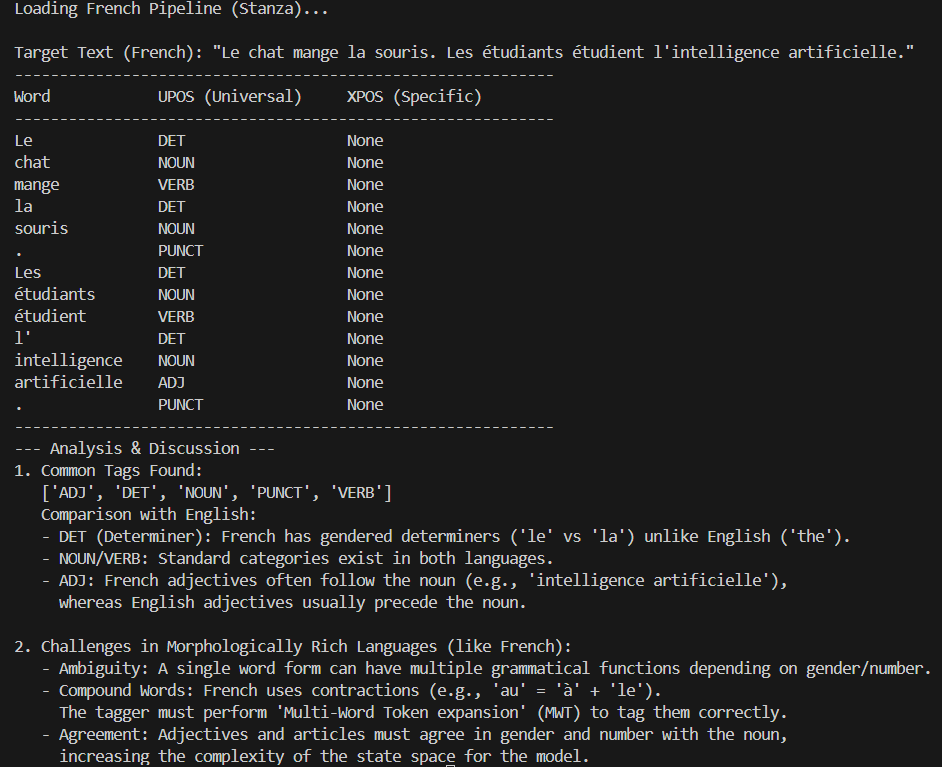
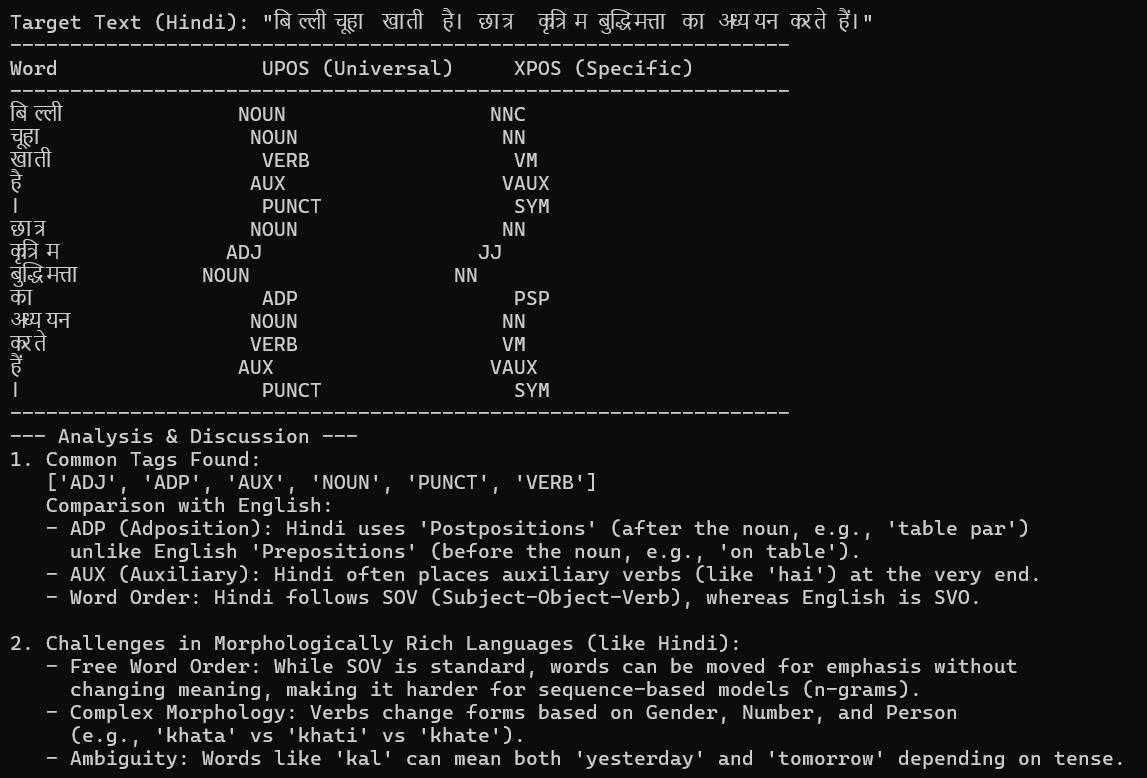
updated q6 to hindi

Changed region(s): [[0.0, 0.0, 0.9851, 1.0], [0.431, 0.3598, 0.4926, 0.5098], [0.4618, 0.5997, 0.5234, 0.6297]]

diff --git a/LAB/question6.py b/LAB/question6.py
@@ -1,64 +1,63 @@
 import stanza
 import sys
 
+# stanza.download('hi')
 
-stanza.download('fr')
-
-def pos_tagging_french():
+def pos_tagging_hindi():
     try:
-        # 1. Load Pretrained Model (French)
-        # Processors: 'tokenize' (split words), 'pos' (part of speech), 'mwt' (multi-word token expansion for French)
-        print("Loading French Pipeline (Stanza)...")
-        nlp = stanza.Pipeline(lang='fr', processors='tokenize,mwt,pos', verbose=False)
+        # 1. Load Pretrained Model (Hindi)
+        # Processors: 'tokenize' (split words), 'pos' (part of speech)
+        print("Loading Hindi Pipeline (Stanza)...")
+        nlp = stanza.Pipeline(lang='hi', processors='tokenize,pos', verbose=False)
     except Exception as e:
         print(f"Error loading model: {e}")
-        print("Please run 'stanza.download(\"fr\")' to download the model first.")
+        print("Please run 'stanza.download(\"hi\")' to download the model first.")
         return
 
     # 2. Load Sentences (Target Language)
-    # Sentence 1: "The cat eats the mouse."
-    # Sentence 2: "The students study artificial intelligence."
-    french_text = "Le chat mange la souris. Les étudiants étudient l'intelligence artificielle."
+    # Sentence 1: "The cat eats the mouse." -> "बिल्ली चूहा खाती है।"
+    # Sentence 2: "Students study artificial intelligence." -> "छात्र कृत्रिम बुद्धिमत्ता का अध्ययन करते हैं।"
+    hindi_text = "बिल्ली चूहा खाती है। छात्र कृत्रिम बुद्धिमत्ता का अध्ययन करते हैं।"
     
-    print(f"\nTarget Text (French): \"{french_text}\"")
-    print("-" * 60)
+    print(f"\nTarget Text (Hindi): \"{hindi_text}\"")
+    print("-" * 65)
 
     # 3. Perform Tagging
-    doc = nlp(french_text)
+    doc = nlp(hindi_text)
 
     # 4. Display Tags
     # UPOS: Universal Part of Speech (Standard across languages)
-    # XPOS: Language-specific Part of Speech (Specific to French grammar)
-    print(f"{'Word':<15} {'UPOS (Universal)':<20} {'XPOS (Specific)'}")
-    print("-" * 60)
+    # XPOS: Language-specific Part of Speech (Specific to Hindi grammar)
+    print(f"{'Word':<20} {'UPOS (Universal)':<20} {'XPOS (Specific)'}")
+    print("-" * 65)
 
     unique_tags = set()
 
     for sentence in doc.sentences:
         for word in sentence.words:
-            print(f"{word.text:<15} {word.upos:<20} {word.xpos}")
+            print(f"{word.text:<20} {word.upos:<20} {word.xpos}")
             unique_tags.add(word.upos)
 
     # 5. Analysis & Discussion (Required by Lab Question)
-    print("-" * 60)
+    print("-" * 65)
     print("--- Analysis & Discussion ---")
     
     # c. Identify common tags and compare with English
     print("1. Common Tags Found:")
     print(f"   {sorted(list(unique_tags))}")
     print("   Comparison with English:")
-    print("   - DET (Determiner): French has gendered determiners ('le' vs 'la') unlike English ('the').")
-    print("   - NOUN/VERB: Standard categories exist in both languages.")
-    print("   - ADJ: French adjectives often follow the noun (e.g., 'intelligence artificielle'),")
-    print("     whereas English adjectives usually precede the noun.")
+    print("   - ADP (Adposition): Hindi uses 'Postpositions' (after the noun, e.g., 'table par')")
+    print("     unlike English 'Prepositions' (before the noun, e.g., 'on table').")
+    print("   - AUX (Auxiliary): Hindi often places auxiliary verbs (like 'hai') at the very end.")
+    print("   - Word Order: Hindi follows SOV (Subject-Object-Verb), whereas English is SVO.")
 
     # d. Challenges in Morphologically Rich Languages
-    print("\n2. Challenges in Morphologically Rich Languages (like French):")
-    print("   - Ambiguity: A single word form can have multiple grammatical functions depending on gender/number.")
-    print("   - Compound Words: French uses contractions (e.g., 'au' = 'à' + 'le').")
-    print("     The tagger must perform 'Multi-Word Token expansion' (MWT) to tag them correctly.")
-    print("   - Agreement: Adjectives and articles must agree in gender and number with the noun,")
-    print("     increasing the complexity of the state space for the model.")
+    print("\n2. Challenges in Morphologically Rich Languages (like Hindi):")
+    print("   - Free Word Order: While SOV is standard, words can be moved for emphasis without")
+    print("     changing meaning, making it harder for sequence-based models (n-grams).")
+    print("   - Complex Morphology: Verbs change forms based on Gender, Number, and Person")
+    print("     (e.g., 'khata' vs 'khati' vs 'khate').")
+    print("   - Ambiguity: Words like 'kal' can mean both 'yesterday' and 'tomorrow' depending on tense.")
 
 if __name__ == "__main__":
-    pos_tagging_french()
+    pos_tagging_hindi()
